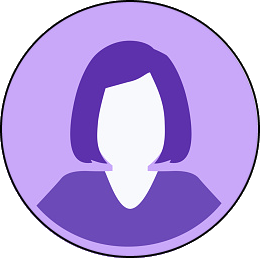
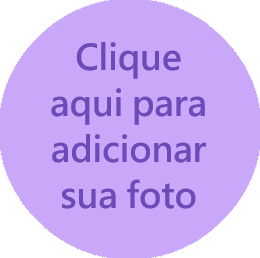
Dashboard User estilizado; Função de adicionar foto

diff --git a/src/Frontend/usuario/script/dashboardUser.js b/src/Frontend/usuario/script/dashboardUser.js
@@ -22,7 +22,10 @@ const getInfo = async () => {
 getInfo().then((res) => {
   //colocar nome
   document.querySelector("#username").textContent = res.name;
-  console.log(res.curriculum)
+  console.log(res);
+  if (res.photoUrl) {
+    document.querySelector("#user").src=`${res.photoUrl}`;
+  }
 
   //confere se o curriculo já foi preenchido
   if (res.curriculum) {
@@ -78,67 +81,66 @@ getInfo().then((res) => {
       `
       <h2 class="center">Soft Skills</h2>
       <div class="skillsBx">
-          <p>
-            Controle de Emoções: ${skillsOBJ.ss1}
-          </p>
-          <p>
-            Criatividade: ${skillsOBJ.ss2}
-          </p>
-          <p>
-            Trabalho em grupo: ${skillsOBJ.ss3}
-          </p>
-          <p>
-            Comunicação eficaz: ${skillsOBJ.ss4}
-          </p>
-          <p>
-            Liderança: ${skillsOBJ.ss5}
-          </p>
-          <p>
-            Pensamento crítico: ${skillsOBJ.ss6}
-          </p>
-          <p>
-            Empatia: ${skillsOBJ.ss7}
-          </p>
-          <p>
-            Atitude: ${skillsOBJ.ss8}
-          </p>
-          <p>
-            Flexivel nas tarefas: ${skillsOBJ.ss9}
-          </p>
-          <p>
-            Rápida tomada de decisões: ${skillsOBJ.ss10}
-          </p>
-          <p>
-            Negociações: ${skillsOBJ.ss11}
-          </p>
-          <p>
-            Adaptável: ${skillsOBJ.ss12}
-          </p>
-          <p>
-            Detalhista: ${skillsOBJ.ss13}
-          </p>
-          <p>
-            Relacionamentos interpessoais: ${skillsOBJ.ss14}
-          </p>
-          <p>
-            Gestão de tempo: ${skillsOBJ.ss15}
-          </p>
-          <p>
-            Planejamento: ${skillsOBJ.ss16}
-          </p>
-          <p>
-            Organização: ${skillsOBJ.ss17}
-          </p>
-          <p>
-            Resiliência: ${skillsOBJ.ss18}
-          </p>
-          <p>
-            Desempenho sobre pressão: ${skillsOBJ.ss19}
-          </p>
-          <p>
-            Desenvolvimento próprio: ${skillsOBJ.ss20}
-          </p>
-          
+          <div class="skillParagraph">  
+            <p>Resolução de Problemas Complexos: </p>
+              <div class="progressBar">
+                <div class="greenBar" style="width:calc(25%*${skillsOBJ.ss1})"></div>
+              </div>
+          </div>
+          <div class="skillParagraph">  
+            <p>Pensamento Crítico: </p>
+              <div class="progressBar">
+                <div class="greenBar" style="width:calc(25%*${skillsOBJ.ss2})"></div>
+              </div>
+          </div>
+          <div class="skillParagraph">  
+            <p>Criatividade: </p>
+              <div class="progressBar">
+                <div class="greenBar" style="width:calc(25%*${skillsOBJ.ss3})"></div>
+              </div>
+          </div>
+          <div class="skillParagraph">  
+            <p>Gestão de Pessoas: </p>
+              <div class="progressBar">
+                <div class="greenBar" style="width:calc(25%*${skillsOBJ.ss4})"></div>
+              </div>
+          </div>
+          <div class="skillParagraph">  
+            <p>Liderança e influência social: </p>
+              <div class="progressBar">
+                <div class="greenBar" style="width:calc(25%*${skillsOBJ.ss5})"></div>
+              </div>
+          </div>
+          <div class="skillParagraph">  
+            <p>Pensamento analítico e inovação: </p>
+              <div class="progressBar">
+                <div class="greenBar" style="width:calc(25%*${skillsOBJ.ss6})"></div>
+              </div>
+          </div>
+          <div class="skillParagraph">  
+            <p>Resiliência, tolerância e flexibilidade: </p>
+              <div class="progressBar">
+                <div class="greenBar" style="width:calc(25%*${skillsOBJ.ss7})"></div>
+              </div>
+          </div>
+          <div class="skillParagraph">  
+            <p>Inteligência emocional: </p>
+              <div class="progressBar">
+                <div class="greenBar" style="width:calc(25%*${skillsOBJ.ss8})"></div>
+              </div>
+          </div>
+          <div class="skillParagraph">  
+            <p>Persuasão e negociação: </p>
+              <div class="progressBar">
+                <div class="greenBar" style="width:calc(25%*${skillsOBJ.ss9})"></div>
+              </div>
+          </div>
+          <div class="skillParagraph">  
+            <p>Gestão do tempo: </p>
+              <div class="progressBar">
+                <div class="greenBar" style="width:calc(25%*${skillsOBJ.ss10})"></div>
+              </div>
+          </div>
       </div>
       `
     );
@@ -164,3 +166,10 @@ getInfo().then((res) => {
   }
 });
 
+function selectPhoto(){
+  var photoUrl = prompt("Digite a URL de uma foto sua")
+
+  $.post('/sendPhotoUrl', {photoUrl: photoUrl})
+
+  document.location.reload(true);
+}

diff --git a/src/Frontend/usuario/pages/dashboardUser.html b/src/Frontend/usuario/pages/dashboardUser.html
@@ -5,6 +5,12 @@
     <meta charset="UTF-8" />
     <meta http-equiv="X-UA-Compatible" content="IE=edge" />
     <meta name="viewport" content="width=device-width, initial-scale=1.0" />
+    <script src="https://ajax.googleapis.com/ajax/libs/jquery/3.6.0/jquery.min.js"></script>
+    <script
+      src="https://code.jquery.com/jquery-3.6.0.min.js"
+      integrity="sha256-/xUj+3OJU5yExlq6GSYGSHk7tPXikynS7ogEvDej/m4="
+      crossorigin="anonymous"
+    ></script>
     <link rel="stylesheet" href="/usuario/css/dashboardUser.css" />
     <link rel="stylesheet" href="/global/nav.css" />
     <link href="https://cdn.jsdelivr.net/npm/bootstrap@5.2.0-beta1/dist/css/bootstrap.min.css" rel="stylesheet" integrity="sha384-0evHe/X+R7YkIZDRvuzKMRqM+OrBnVFBL6DOitfPri4tjfHxaWutUpFmBp4vmVor" crossorigin="anonymous">
@@ -42,22 +48,18 @@
     </nav>
     </header>
     <main>
-        <div class="col">
-            <div class="row">
-                <div class="col-md">
-                    <img id="user" width="200" src="../../assets/user.png"></a>
-                </div>
+        <div class="imgContainer">
+            <div class="imgBx">
+                <a onclick="selectPhoto()"><img id="user" width="200" src="../../assets/user.png"></a>
+                <h1 id="username">Nome de Usuária Completo</h1>
             </div>
-            <div class="row">
-              <h3 id="username">Nome de Usuária Completo</h3>
+        </div>
+        <div class="infosContainer">
+          <div class="infosBx" id="curriculoContainer">
+            
           </div>
-          <div class="infosContainer">
-            <div class="infosBx" id="curriculoContainer">
-              
-            </div>
-            <div class="infosBx" id="skillContainer">
+          <div class="infosBx" id="skillContainer">
 
-            </div>
           </div>
         </div>
     </main>
@@ -66,7 +68,6 @@
     </footer>
     <script src="//cdn.jsdelivr.net/npm/sweetalert2@11"></script>
     <script src="usuario/script/dashboardUser.js"></script>
-    <script src="https://ajax.googleapis.com/ajax/libs/jquery/3.6.0/jquery.min.js"></script>
     <script src="https://cdn.jsdelivr.net/npm/bootstrap@5.2.0-beta1/dist/js/bootstrap.bundle.min.js" integrity="sha384-pprn3073KE6tl6bjs2QrFaJGz5/SUsLqktiwsUTF55Jfv3qYSDhgCecCxMW52nD2" crossorigin="anonymous"></script>
 </body>
 

diff --git a/src/Frontend/usuario/css/dashboardUser.css b/src/Frontend/usuario/css/dashboardUser.css
@@ -1,30 +1,31 @@
-*{
-  text-decoration: none!important;
+* {
+  text-decoration: none !important;
 }
 
-html{
-  overflow-x: hidden;
-}
-
-.center{
-  text-align: center;
-}
-
-#user {
+#user{
+  cursor: pointer;
   border-radius: 50%;
-  display: block;
-  margin-left: auto;
-  margin-right: auto;
-  margin-top: 100px;
 }
-#username {
+
+html {
+  overflow: hidden;
+}
+body{
+  background-color: rgb(40, 0, 68, 0.2)!important;
+}
+
+.center {
   text-align: center;
-  margin-top: 20px;
 }
 .local {
   text-align: center;
   margin-top: 30px;
 }
+
+#username{
+  color: #280044;
+}
+
 #curriculum {
   text-align: center;
 }
@@ -45,35 +46,77 @@ html{
   color: rgb(188, 0, 0);
 }
 
-button:hover{
-  box-shadow: rgb(40, 0, 68) 0 0 10px!important;
+button:hover {
+  box-shadow: rgb(40, 0, 68) 0 0 10px !important;
 }
 
-.infosContainer{
+.infosContainer {
   justify-content: space-around;
-  align-items: center;
+  align-items: flex-start;
   flex-direction: row;
   display: flex;
+  background-color: #280044;
+  border-radius: 20px 20px 0px 0px;
+  margin-top: 10px;
+  color: #e1cbf1;
+  padding: 20px;
+  box-shadow: #280044 0 0 10px;
 }
 
-.infosBx{
-  width: 50%!important;
+.infosBx {
+  width: 50% !important;
 }
 
-.curriculoBx{
+.curriculoBx {
   display: flex;
   align-items: flex-start;
   justify-content: space-evenly;
   flex-direction: row;
 }
 
-.skillsBx{
+.skillsBx {
   max-height: 200px;
   display: flex;
   flex-direction: column;
   flex-wrap: wrap;
 }
 
-.skillsBx p{
-  margin: 0px 10px;
+.skillsBx p {
+  margin: 5px;
+  display: flex;
+  flex-direction: row;
+}
+
+.skillParagraph {
+  display: flex;
+  flex-direction: row;
+  align-items: center;
+}
+
+.progressBar {
+  width: 50px;
+  background-color: #f1f1f1;
+  border-radius: 10px;
+}
+
+.greenBar {
+  background-color: #f3c42e;
+  height: 10px !important;
+  border-radius: 10px;
+}
+
+.imgContainer {
+  display: flex;
+  justify-content: center;
+}
+
+.imgBx {
+  display: flex;
+  flex-direction: column;
+  align-items: center;
+  padding: 20px;
+}
+
+.imgBx img{
+  margin: 15px;
 }

diff --git a/src/Frontend/usuario/pages/softSkillsTest.html b/src/Frontend/usuario/pages/softSkillsTest.html
@@ -59,9 +59,6 @@
             <label for="" class="form-label ">Gestão do tempo</label>
             <input type="range" class="form-range" min="0" max="4" step="1" id="ss10">
             <h3>-</h3>
-            <label for="" class="form-label ">Aprendizado ativo</label>
-            <input type="range" class="form-range" min="0" max="4" step="1" id="ss11">
-            <h3>-</h3>
           </div>
           <button onclick="sendTest()" class="registerBtn" >Salvar</a>
         </div>

diff --git a/src/Backend/app.js b/src/Backend/app.js
@@ -299,6 +299,15 @@ app.get("/vagasDisponiveis", (req, res) => {
   );
 });
 
+app.post("/sendPhotoUrl", (req, res) => {
+  const infos = req.body;
+  const currentId = req.cookies.id;
+  console.log(currentId)
+  db.run(
+    `UPDATE users SET (photoUrl) = ('${infos.photoUrl}') WHERE id = ${currentId}`
+  );
+});
+
 app.listen(port, hostname, () => {
   console.log(`Server running at http://${hostname}:${port}/`);
 });

diff --git a/src/Frontend/usuario/css/cadastroCurriculo.css b/src/Frontend/usuario/css/cadastroCurriculo.css
@@ -179,6 +179,7 @@ main {
   font-size: 20px !important;
   border-radius: 15px !important;
   font-weight: bold !important;
+  cursor: pointer!important;
 }
 .btn-warning {
   background-color: #f3c42e !important;
